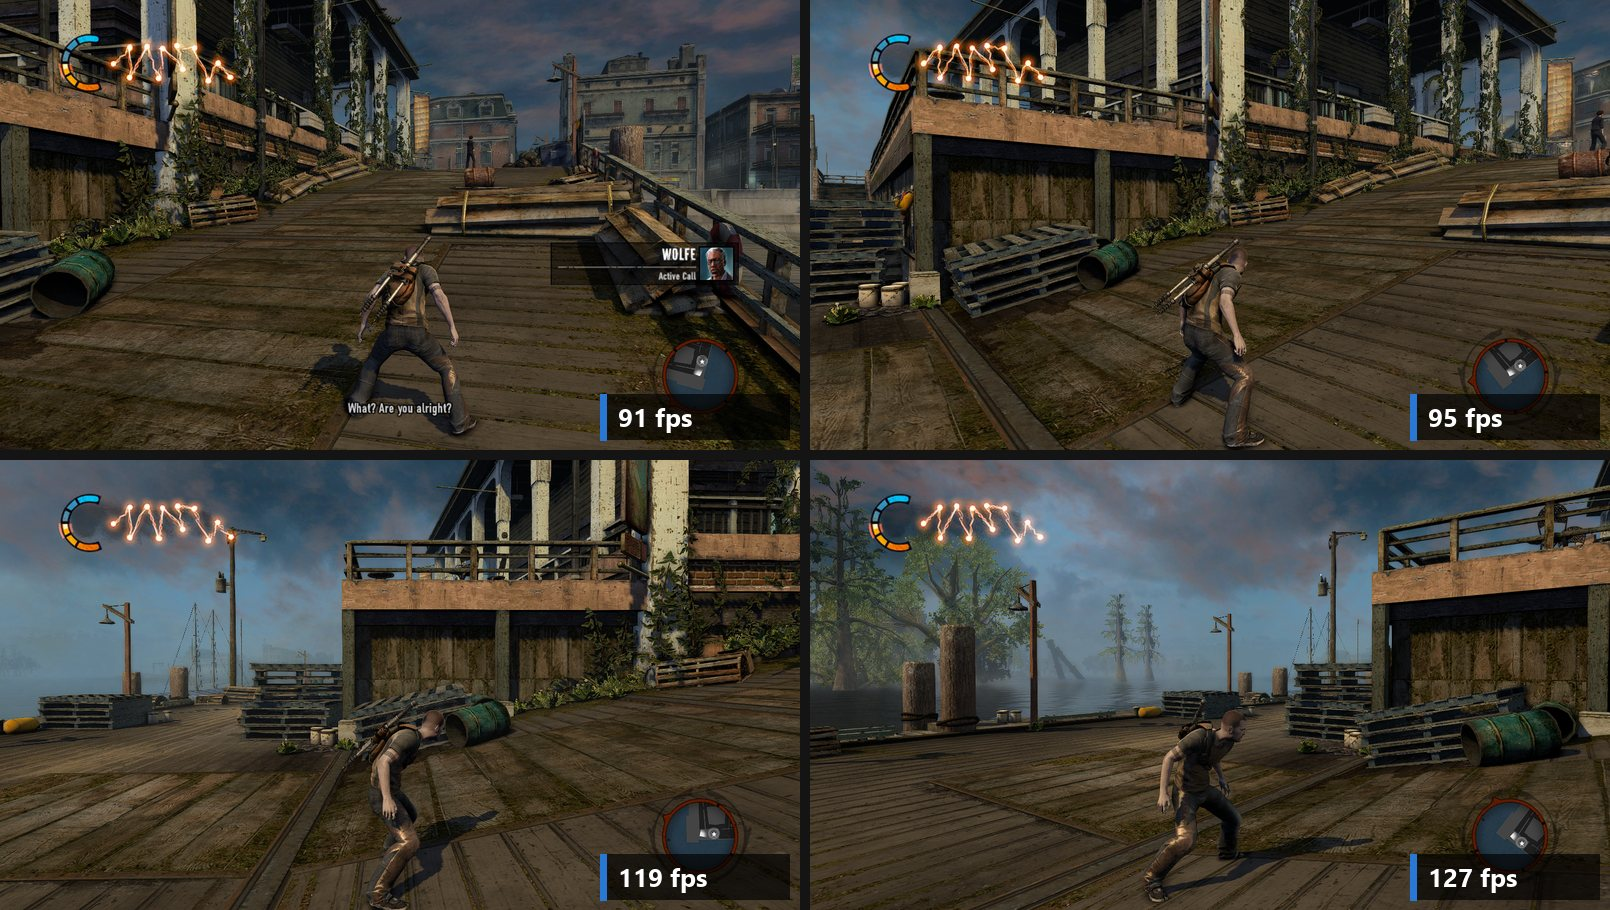
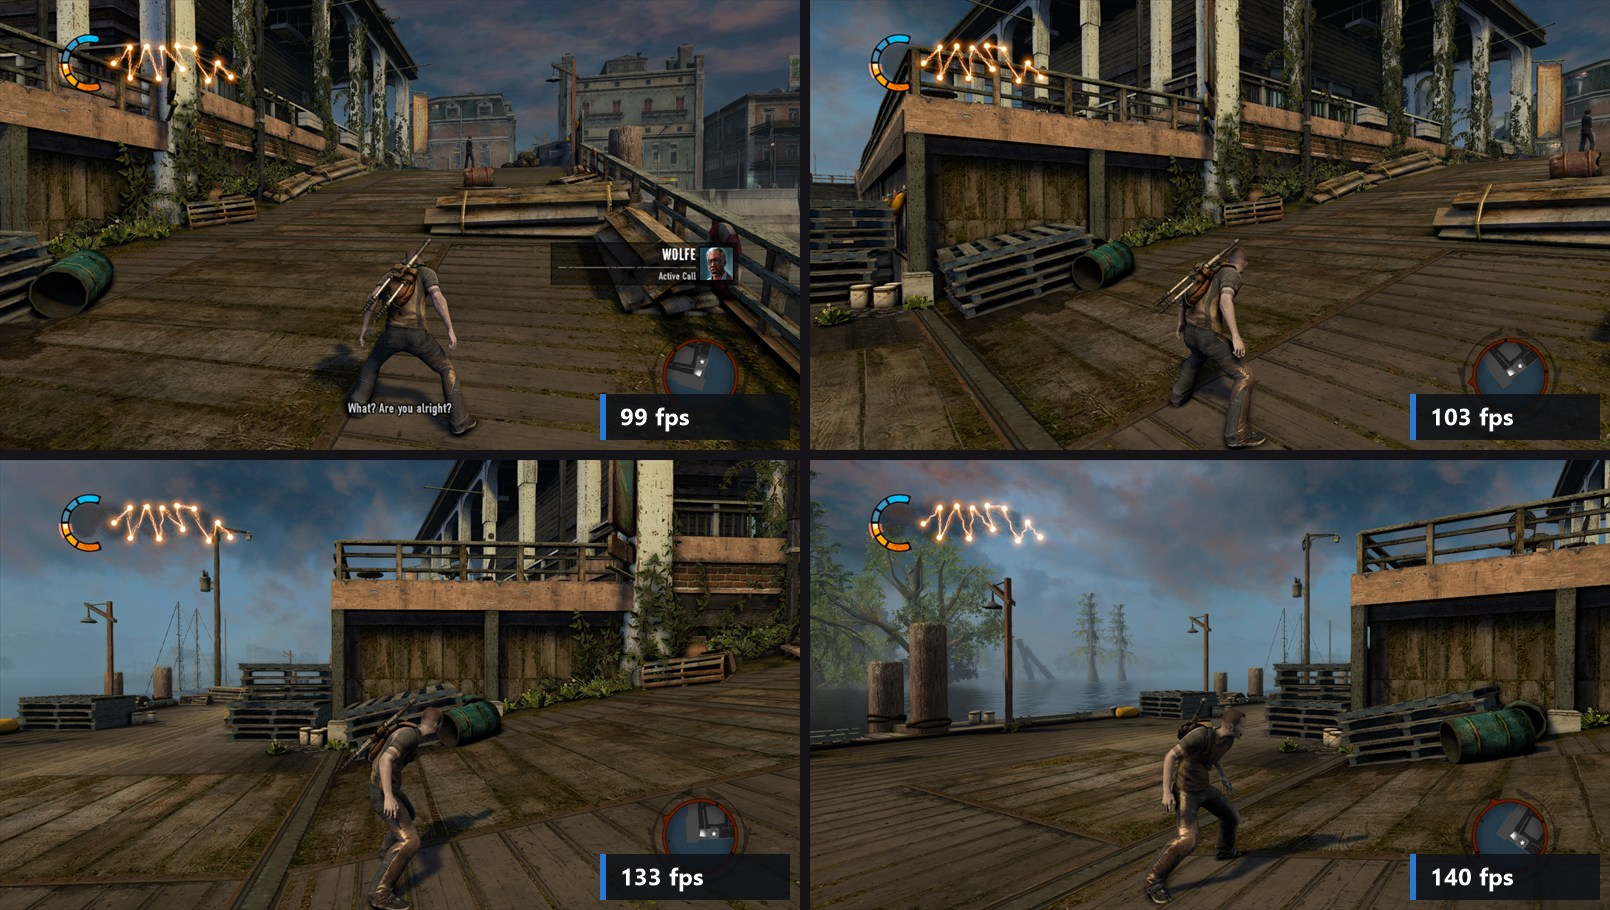
README: fps measured on the build Setup makes today (the dock at 99 fps, 2.3x RPCS3; 1080p with every extra at the same speed as 720p; the rooftop at 80-91 fps), new chart and screenshots

diff --git a/README.md b/README.md
@@ -10,7 +10,7 @@ No emulator while you play.
 [![Windows 10/11](https://img.shields.io/badge/Windows-10%20%7C%2011-0078D6?logo=windows&logoColor=white)](#-what-you-need)
 [![Renderer: Vulkan](https://img.shields.io/badge/renderer-Vulkan-AC162C?logo=vulkan&logoColor=white)](#-how-it-works)
 [![Native 1080p, up to 4K](https://img.shields.io/badge/native-1080p%20%E2%80%A2%20up%20to%204K-6250d6)](#%EF%B8%8F-native-1080p-and-up)
-[![2.1x the frame rate of RPCS3](https://img.shields.io/badge/vs%20RPCS3-2.1%C3%97%20the%20fps-2a78d6)](#-performance-native-vs-rpcs3)
+[![2.3x the frame rate of RPCS3](https://img.shields.io/badge/vs%20RPCS3-2.3%C3%97%20the%20fps-2a78d6)](#-performance-native-vs-rpcs3)
 [![Any controller](https://img.shields.io/badge/controllers-plug%20%26%20play-1baf7a?logo=steamdeck&logoColor=white)](#-full-controller-support)
 [![Status: early public test](https://img.shields.io/badge/status-early%20public%20test-eb6834)](#-status)
 [![License: MIT](https://img.shields.io/badge/license-MIT-1baf7a)](LICENSE)
@@ -23,23 +23,25 @@ No emulator while you play.
 
 <picture>
   <source media="(prefers-color-scheme: dark)" srcset="docs/perf-dark.svg">
-  <img alt="Frames per second at the same spot in the city: RPCS3 0.0.42 42.9 fps, this port 91 fps" src="docs/perf-light.svg" width="760">
+  <img alt="Frames per second at the same spot in the city: RPCS3 0.0.42 42.9 fps, this port 99 fps" src="docs/perf-light.svg" width="760">
 </picture>
 
-![The same spot from the same save: this port at 91 fps (left), RPCS3 at 43 fps (right)](docs/same-spot.jpg)
+![The same spot from the same save: this port at 99 fps (left), RPCS3 at 43 fps (right)](docs/same-spot.jpg)
 
 | Same PC, same save, same spot | RPCS3 0.0.42 | **This port** |
 |---|:-:|:-:|
-| 🏙 City: the dock right after loading (720p) | 43 fps (39–46) | **91 fps** |
-| 🎥 Camera turned to three more views (720p) | not measured | **95 / 119 / 127 fps** |
-| 🖥 The same four views at **native 1080p** with every picture extra on | | **102 / 110 / 136 / 143 fps** |
-| 🔧 Developer build with profile-guided optimisation, dock view (720p) | | 99 fps |
+| 🏙 City: the dock right after loading (720p) | 43 fps (39–46) | **99 fps** |
+| 🎥 Camera turned to three more views (720p) | not measured | **104 / 132 / 139 fps** |
+| 🖥 The same four views at **native 1080p** with every picture extra on | | **99 / 103 / 133 / 140 fps** |
+| 🔧 Developer build (profile-guided optimisation and hand-written SPU code, not in the Setup build), the same four views at 1080p with every extra | | 116 / 126 / 161 / 166 fps |
 
 <sub>
-Measured on 9 Nov 2026 on an i5-13600K, RTX 2070 Super and 32 GB RAM, Windows 11. The PC was a normal desktop
-with a browser open in the background. RPCS3 ran with its default settings: LLVM recompilers, Vulkan, 100%
-resolution (720p). Story videos and cutscenes run at 30 fps in both, as on the PS3. "Picture extras" means
-soft shadows, full-resolution ambient occlusion, smooth light gradients and full-resolution effects.
+This port: measured on 10 Nov 2026 with the build Setup makes today. RPCS3: measured on 9 Nov 2026. Both on an
+i5-13600K, RTX 2070 Super and 32 GB RAM, Windows 11. The PC was a normal desktop with a browser open in the
+background. RPCS3 ran with its default settings: LLVM recompilers, Vulkan, 100% resolution (720p). Here the CPU
+sets the pace, so native 1080p with every extra runs as fast as 720p. Story videos and cutscenes run at 30 fps in
+both, as on the PS3. "Picture extras" means soft shadows, full-resolution ambient occlusion, smooth light
+gradients and full-resolution effects.
 </sub>
 
 ## ✨ What you get
@@ -112,11 +114,15 @@ or **Infamous** (ember red), in F2 → Display.
 Looking out over the city from a rooftop used to drop the game to **4–10 fps**: the texture cache was too small
 and every frame rebuilt hundreds of textures. With a 4× larger cache and buffers that grow instead of stalling,
 the same overflow, forced on purpose, went from **13 to 40 fps**. With normal settings the busy street in our
-test ran at **75 fps with no frame over 37 ms**. The rooftop itself is being re-checked in play.
+test ran at **75 fps with no frame over 37 ms**. That rooftop view now runs at **80–91 fps** at native 1080p with
+every extra on.
+
+Long sessions stay smooth too: in a 26-minute test in the city (developer build), no frame took longer than
+150 ms after loading, and memory use stayed flat.
 
 ### 🎮 In the city on this port
 
-![Four camera views in the city on this port: 91, 95, 119 and 127 fps](docs/city-views.jpg)
+![Four camera views in the city at native 1080p with every picture extra on: 99, 103, 133 and 140 fps](docs/city-views.jpg)
 
 ## 🧭 What this is
 
